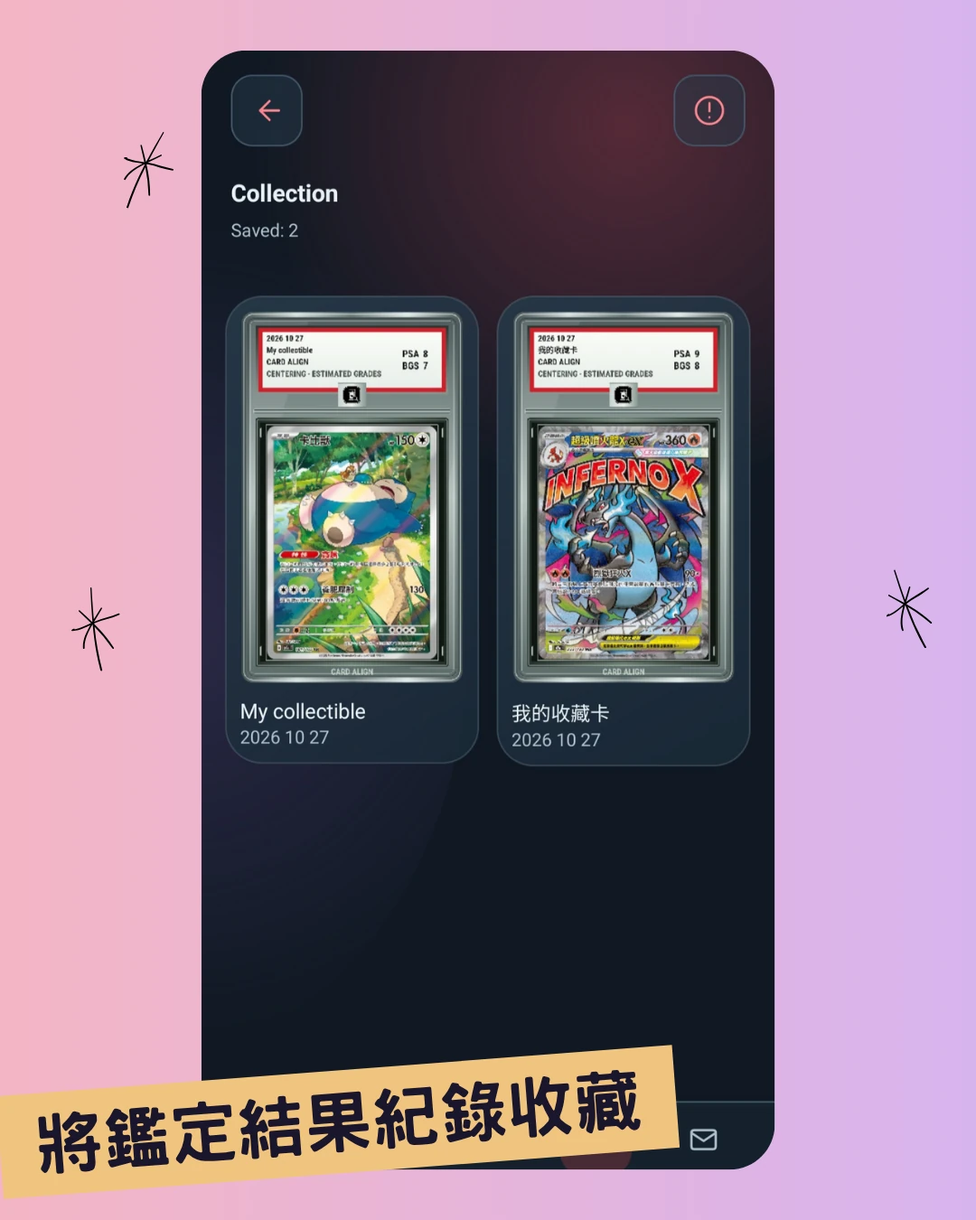
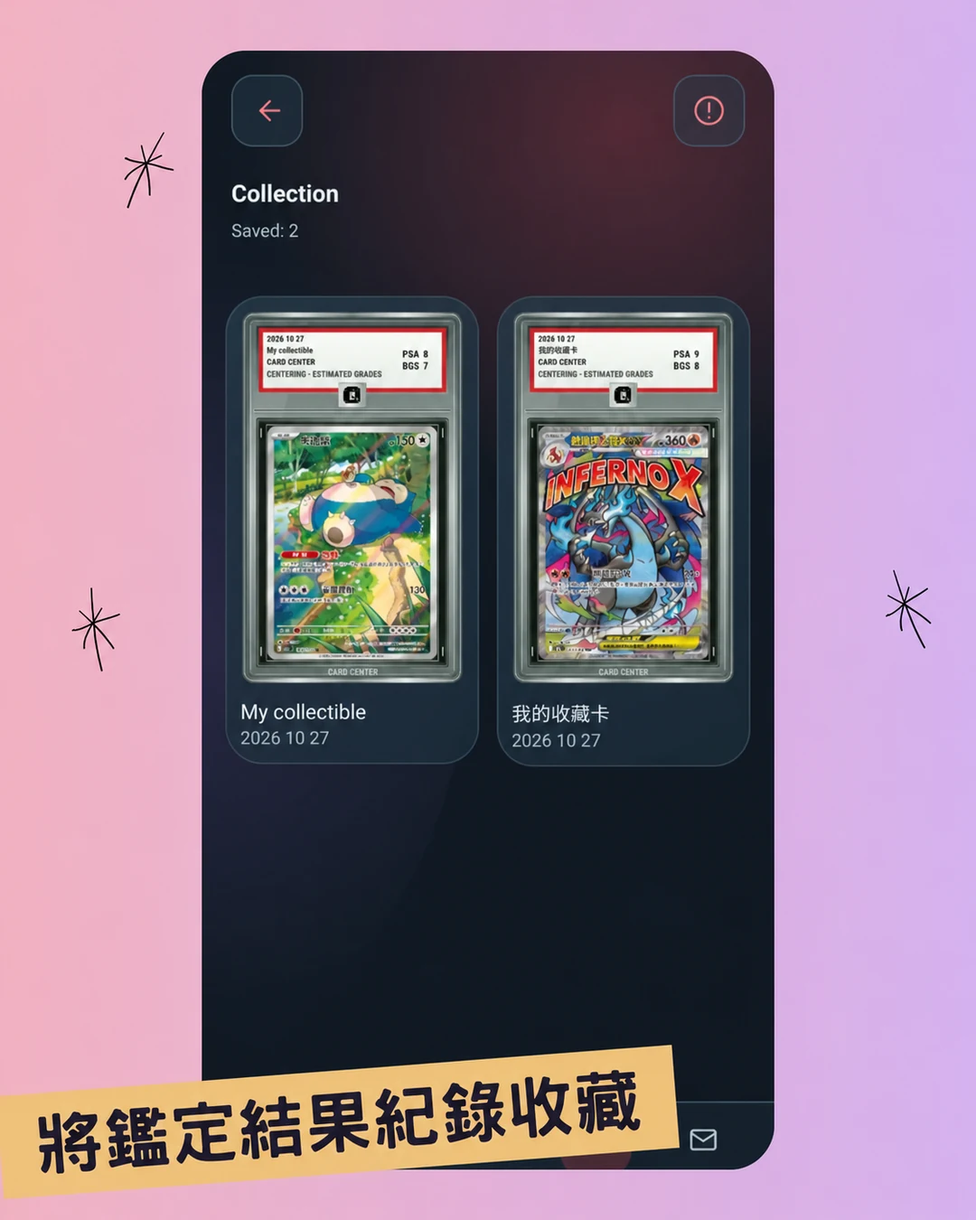
Rebrand the website and feature artwork as CARD CENTER with the verified new APK

diff --git a/index.html b/index.html
@@ -6,11 +6,11 @@
 <meta http-equiv="Content-Security-Policy" content="default-src 'self'; script-src 'self'; style-src 'self' 'unsafe-inline'; img-src 'self'; font-src 'self'; connect-src 'self'; object-src 'none'; base-uri 'none'; form-action 'none'; frame-src 'none'; upgrade-insecure-requests"/>
 <meta content="width=device-width, initial-scale=1" name="viewport"/>
 <meta content="#fafaf8" name="theme-color"/>
-<meta content="CARD ALIGN 卡牌邊框分析 App自動偵測內外框、分析正反面居中比例 製作你的收藏小卡 儲存、分享並收進專屬圖鑑" name="description"/>
+<meta content="CARD CENTER 卡牌邊框分析 App自動偵測內外框、分析正反面居中比例 製作你的收藏小卡 儲存、分享並收進專屬圖鑑" name="description"/>
 <meta content="website" property="og:type"/>
-<meta content="CARD ALIGN — 好卡 好好對齊" property="og:title"/>
-<meta content="CARD ALIGN 卡牌邊框分析 App自動偵測內外框、分析正反面居中比例 製作你的收藏小卡 儲存、分享並收進專屬圖鑑" property="og:description"/>
-<meta content="https://ice0819.github.io/Card-Align/assets/social-preview.jpg" property="og:image"/>
+<meta content="CARD CENTER — 好卡 好好對齊" property="og:title"/>
+<meta content="CARD CENTER 卡牌邊框分析 App自動偵測內外框、分析正反面居中比例 製作你的收藏小卡 儲存、分享並收進專屬圖鑑" property="og:description"/>
+<meta content="https://ice0819.github.io/Card-Align/assets/social-preview-card-center.jpg" property="og:image"/>
 <meta content="https://ice0819.github.io/Card-Align/" property="og:url"/>
 <meta content="summary_large_image" name="twitter:card"/>
 <link href="assets/favicon.png" rel="icon" type="image/png"/>
@@ -18,7 +18,7 @@
 <link href="styles.css" rel="stylesheet"/>
 <link as="image" fetchpriority="high" href="assets/cards/charizard.webp" rel="preload"/>
 <script defer="" src="script.js"></script>
-<title>CARD ALIGN — 好卡 好好對齊</title>
+<title>CARD CENTER — 好卡 好好對齊</title>
 </head>
 <body class="home-page">
 <svg aria-hidden="true" class="icon-definitions" xmlns="http://www.w3.org/2000/svg">
@@ -39,9 +39,9 @@
 <a class="skip-link" href="#main">跳至主要內容</a>
 <header class="site-header">
 <div class="header-inner">
-<a aria-label="CARD ALIGN 首頁" class="brand" href="index.html">
+<a aria-label="CARD CENTER 首頁" class="brand" href="index.html">
 <img alt="" class="brand-mark" height="40" src="assets/logo.png" width="40"/>
-<span>CARD ALIGN<span aria-hidden="true" class="brand-dot">+</span></span>
+<span>CARD CENTER<span aria-hidden="true" class="brand-dot">+</span></span>
 </a>
 <nav aria-label="主要導覽" class="desktop-nav"><a href="#features">功能特色</a><a href="tutorial.html">如何使用</a><a href="pricing.html">收費方式</a><a href="#faq">常見問題</a><a href="contact.html">聯絡我們</a></nav>
 <div class="header-actions">
@@ -56,7 +56,7 @@
 <div class="hero-copy container">
 <h1 id="hero-title"><span>好卡</span><br/><span class="hero-emphasis">好好對齊</span><span aria-hidden="true" class="alignment-spark"></span></h1>
 <div class="hero-actions">
-<a class="button apk-download button-ink" download="card-align-v1.0.apk" href="https://github.com/ice0819/Card-Align/releases/download/v1.0/card-align-v1.0.apk"><svg class="icon"><use href="#i-down"></use></svg><span>下載APP</span></a>
+<a class="button apk-download button-ink" download="card-center-v1.0.apk" href="https://github.com/ice0819/Card-Align/releases/download/v1.0-card-center/card-center-v1.0.apk"><svg class="icon"><use href="#i-down"></use></svg><span>下載APP</span></a>
 </div>
 </div>
 <div aria-label="卡牌展示，可用左右方向鍵切換" aria-roledescription="carousel" class="card-showcase" role="region" tabindex="0">
@@ -81,7 +81,7 @@
 <div class="section-heading reveal"><h2 id="features-title">收藏的細節 <br/>看得更清楚</h2></div>
 <div aria-label="App 功能介紹" class="app-gallery" id="app-gallery" role="region">
 <figure class="feature-story reveal">
-<img alt="CARD ALIGN 主頁、卡牌輪播與正反面照片匯入功能介紹" class="feature-story-image" decoding="async" height="1350" loading="lazy" src="assets/features/01-start.webp" width="1080"/>
+<img alt="CARD CENTER 主頁、卡牌輪播與正反面照片匯入功能介紹" class="feature-story-image" decoding="async" height="1350" loading="lazy" src="assets/features/01-start.webp" width="1080"/>
 <figcaption><h3>開始卡牌分析</h3><p>匯入正反面照片 從你的收藏開始</p></figcaption>
 </figure>
 <figure class="feature-story reveal">
@@ -94,14 +94,14 @@
 </figure>
 <figure class="feature-story reveal">
 <img alt="卡牌邊框比例分析報告，以及具有自訂名稱和預估級別的專屬小卡" class="feature-story-image" decoding="async" height="1350" loading="lazy" src="assets/features/04-results.webp" width="1080"/>
-<figcaption><h3>分析結果與專屬小卡</h3><p>分析邊框比例 把結果做成專屬小卡</p><div class="story-addon story-slab"><div class="slab-scene"><div aria-label="CARD ALIGN 收藏小卡示意" class="score-slab"><div class="slab-label"><div class="slab-label-left"><span>2026 10 27</span><strong>CHARIZARD</strong><span>CARD ALIGN</span></div><div class="slab-label-right"><div><span>PSA</span><b>10</b></div><div><span>BGS</span><b>9.5</b></div></div><span class="slab-label-bottom">CENTERING · ESTIMATED GRADES</span><div class="slab-sticker"><img alt="" height="26" loading="lazy" src="assets/logo.png" width="26"/></div></div><div class="slab-divider"></div><div class="slab-card-well"><img alt="噴火龍卡牌" height="502" loading="lazy" src="assets/cards/charizard.webp" width="360"/></div></div></div></div></figcaption>
+<figcaption><h3>分析結果與專屬小卡</h3><p>分析邊框比例 把結果做成專屬小卡</p><div class="story-addon story-slab"><div class="slab-scene"><div aria-label="CARD CENTER 收藏小卡示意" class="score-slab"><div class="slab-label"><div class="slab-label-left"><span>2026 10 27</span><strong>CHARIZARD</strong><span>CARD CENTER</span></div><div class="slab-label-right"><div><span>PSA</span><b>10</b></div><div><span>BGS</span><b>9.5</b></div></div><span class="slab-label-bottom">CENTERING · ESTIMATED GRADES</span><div class="slab-sticker"><img alt="" height="26" loading="lazy" src="assets/logo.png" width="26"/></div></div><div class="slab-divider"></div><div class="slab-card-well"><img alt="噴火龍卡牌" height="502" loading="lazy" src="assets/cards/charizard.webp" width="360"/></div></div></div></div></figcaption>
 </figure>
 <figure class="feature-story reveal">
 <img alt="將卡牌圖片、名稱、日期與分析結果儲存到收藏圖鑑的功能介紹" class="feature-story-image" decoding="async" height="1350" loading="lazy" src="assets/features/05-collection.webp" width="1080"/>
 <figcaption><h3>圖鑑紀錄收藏</h3><p>留下紀錄 隨時回顧收藏</p></figcaption>
 </figure>
 <figure class="feature-story reveal">
-<img alt="CARD ALIGN 的黑夜模式及繁體中文、英文介面切換功能介紹" class="feature-story-image" decoding="async" height="1350" loading="lazy" src="assets/features/06-appearance.webp" width="1080"/>
+<img alt="CARD CENTER 的黑夜模式及繁體中文、英文介面切換功能介紹" class="feature-story-image" decoding="async" height="1350" loading="lazy" src="assets/features/06-appearance.webp" width="1080"/>
 <figcaption><h3>深淺模式與雙語</h3><p>切換深淺模式 以及各種語言</p></figcaption>
 </figure>
 </div>
@@ -109,18 +109,18 @@
 <section aria-labelledby="faq-title" class="faq-section section-space container" id="faq">
 <div class="faq-intro reveal"><h2 id="faq-title">開始之前 <br/>你可能想知道</h2></div>
 <div class="faq-list reveal">
-<details><summary><span>App 的評分等於正式鑑定嗎？</span><svg class="icon"><use href="#i-plus"></use></svg></summary><div class="faq-answer">不是 CARD ALIGN 僅依邊框居中比例提供 PSA / BGS 預估級別 不檢查卡角、卡邊磨損或表面狀況 也不是 PSA 或 BGS 的官方產品 請把結果當作整理收藏與送鑑前的參考</div></details>
+<details><summary><span>App 的評分等於正式鑑定嗎？</span><svg class="icon"><use href="#i-plus"></use></svg></summary><div class="faq-answer">不是 CARD CENTER 僅依邊框居中比例提供 PSA / BGS 預估級別 不檢查卡角、卡邊磨損或表面狀況 也不是 PSA 或 BGS 的官方產品 請把結果當作整理收藏與送鑑前的參考</div></details>
 <details><summary><span>要準備什麼樣的照片？</span><svg class="icon"><use href="#i-plus"></use></svg></summary><div class="faq-answer">準備同一張卡牌的正面與背面照片 保留完整四角 盡量正面拍攝並減少反光 可以從相簿匯入 也可以直接開啟相機；照片方向不對時 可先用 90° 旋轉修正</div></details>
 <details><summary><span>需要連上網路才能分析嗎？</span><svg class="icon"><use href="#i-plus"></use></svg></summary><div class="faq-answer">邊框偵測、透視校正、分析與本機圖鑑不需要網路 卡牌查價、線上翻譯、開啟商品頁與贊助連結則需要網路連線</div></details>
 <details><summary><span>可以在 iPhone 使用嗎？</span><svg class="icon"><use href="#i-plus"></use></svg></summary><div class="faq-answer">目前提供 Android 版本 支援 Android 7.0 以上 此網站是產品介紹頁 實際拍攝、校正與分析功能請在 Android App 中使用</div></details>
-<details><summary><span>下載 APK 後怎麼安裝？</span><svg class="icon"><use href="#i-plus"></use></svg></summary><div class="faq-answer">點選下載按鈕直接儲存 APK 再從手機開啟檔案安裝 若系統要求 請只為這次使用的瀏覽器或檔案管理程式允許安裝來源 安裝後開啟 CARD ALIGN 即可開始匯入照片</div></details>
+<details><summary><span>下載 APK 後怎麼安裝？</span><svg class="icon"><use href="#i-plus"></use></svg></summary><div class="faq-answer">點選下載按鈕直接儲存 APK 再從手機開啟檔案安裝 若系統要求 請只為這次使用的瀏覽器或檔案管理程式允許安裝來源 安裝後開啟 CARD CENTER 即可開始匯入照片</div></details>
 </div>
 </section>
-<section aria-labelledby="download-title" class="download-section" id="download"><div class="download-inner container"><div class="download-copy reveal"><h2 id="download-title">下一張收藏 <br/>好好對齊</h2><a class="button button-ink apk-download" download="card-align-v1.0.apk" href="https://github.com/ice0819/Card-Align/releases/download/v1.0/card-align-v1.0.apk"><svg class="icon"><use href="#i-down"></use></svg><span>下載APP</span></a><span class="download-meta">v1.0 · Android 7.0+ · 直接下載 APK</span></div><div aria-hidden="true" class="download-art reveal"><div class="download-orbit"></div><img alt="" class="download-card card-one" height="502" loading="lazy" src="assets/cards/poncho-red.webp" width="360"/><img alt="" class="download-card card-two" height="502" loading="lazy" src="assets/cards/poncho-green.webp" width="360"/><span class="download-seal glass"><img alt="" height="48" loading="lazy" src="assets/logo.png" width="48"/></span></div></div></section>
+<section aria-labelledby="download-title" class="download-section" id="download"><div class="download-inner container"><div class="download-copy reveal"><h2 id="download-title">下一張收藏 <br/>好好對齊</h2><a class="button button-ink apk-download" download="card-center-v1.0.apk" href="https://github.com/ice0819/Card-Align/releases/download/v1.0-card-center/card-center-v1.0.apk"><svg class="icon"><use href="#i-down"></use></svg><span>下載APP</span></a><span class="download-meta">v1.0 · Android 7.0+ · 直接下載 APK</span></div><div aria-hidden="true" class="download-art reveal"><div class="download-orbit"></div><img alt="" class="download-card card-one" height="502" loading="lazy" src="assets/cards/poncho-red.webp" width="360"/><img alt="" class="download-card card-two" height="502" loading="lazy" src="assets/cards/poncho-green.webp" width="360"/><span class="download-seal glass"><img alt="" height="48" loading="lazy" src="assets/logo.png" width="48"/></span></div></div></section>
 </main>
 <footer class="site-footer container">
 <div class="footer-top">
-<a aria-label="CARD ALIGN 首頁" class="brand" href="index.html"><img alt="" class="brand-mark" height="36" src="assets/logo.png" width="36"/><span>CARD ALIGN<span aria-hidden="true" class="brand-dot">+</span></span></a>
+<a aria-label="CARD CENTER 首頁" class="brand" href="index.html"><img alt="" class="brand-mark" height="36" src="assets/logo.png" width="36"/><span>CARD CENTER<span aria-hidden="true" class="brand-dot">+</span></span></a>
 <div class="footer-links">
 <a href="pricing.html">服務與贊助</a>
 <a href="contact.html">聯絡我們</a>
@@ -130,7 +130,7 @@
 <div><h3>客服資訊</h3><p>App 使用與贊助問題 歡迎來信聯絡</p></div>
 <a class="contact-email" href="mailto:card33358445@gmail.com"><svg aria-hidden="true" class="icon"><use href="#i-mail"></use></svg><span>card33358445@gmail.com</span></a>
 </div>
-<div class="footer-bottom"><span>© <span id="year">2026</span> CARD ALIGN </span><span>卡牌圖片僅作功能與收藏展示 相關商標及圖像權利屬原權利人</span></div>
+<div class="footer-bottom"><span>© <span id="year">2026</span> CARD CENTER </span><span>卡牌圖片僅作功能與收藏展示 相關商標及圖像權利屬原權利人</span></div>
 </footer>
 </body>
 </html>

diff --git a/pricing.html b/pricing.html
@@ -6,18 +6,18 @@
 <meta http-equiv="Content-Security-Policy" content="default-src 'self'; script-src 'self'; style-src 'self' 'unsafe-inline'; img-src 'self'; font-src 'self'; connect-src 'self'; object-src 'none'; base-uri 'none'; form-action 'none'; frame-src 'none'; upgrade-insecure-requests"/>
 <meta content="width=device-width, initial-scale=1" name="viewport"/>
 <meta content="#fafaf8" name="theme-color"/>
-<meta content="CARD ALIGN 免費使用、無應用程式內購；自願贊助金額自訂 以新台幣計價" name="description"/>
+<meta content="CARD CENTER 免費使用、無應用程式內購；自願贊助金額自訂 以新台幣計價" name="description"/>
 <meta content="website" property="og:type"/>
-<meta content="收費方式｜CARD ALIGN" property="og:title"/>
-<meta content="CARD ALIGN 免費使用、無應用程式內購；自願贊助金額自訂 以新台幣計價" property="og:description"/>
-<meta content="https://ice0819.github.io/Card-Align/assets/social-preview.jpg" property="og:image"/>
+<meta content="收費方式｜CARD CENTER" property="og:title"/>
+<meta content="CARD CENTER 免費使用、無應用程式內購；自願贊助金額自訂 以新台幣計價" property="og:description"/>
+<meta content="https://ice0819.github.io/Card-Align/assets/social-preview-card-center.jpg" property="og:image"/>
 <meta content="https://ice0819.github.io/Card-Align/pricing.html" property="og:url"/>
 <meta content="summary_large_image" name="twitter:card"/>
 <link href="assets/favicon.png" rel="icon" type="image/png"/>
 <link href="assets/app-icon.png" rel="apple-touch-icon"/>
 <link href="styles.css" rel="stylesheet"/>
 <script defer="" src="script.js"></script>
-<title>收費方式｜CARD ALIGN</title>
+<title>收費方式｜CARD CENTER</title>
 </head>
 <body class="pricing-page">
 <svg aria-hidden="true" class="icon-definitions" xmlns="http://www.w3.org/2000/svg">
@@ -38,9 +38,9 @@
 <a class="skip-link" href="#main">跳至主要內容</a>
 <header class="site-header">
 <div class="header-inner">
-<a aria-label="CARD ALIGN 首頁" class="brand" href="index.html">
+<a aria-label="CARD CENTER 首頁" class="brand" href="index.html">
 <img alt="" class="brand-mark" height="40" src="assets/logo.png" width="40"/>
-<span>CARD ALIGN<span aria-hidden="true" class="brand-dot">+</span></span>
+<span>CARD CENTER<span aria-hidden="true" class="brand-dot">+</span></span>
 </a>
 <nav aria-label="主要導覽" class="desktop-nav"><a href="index.html#features">功能特色</a><a href="tutorial.html">如何使用</a><a aria-current="page" href="pricing.html">收費方式</a><a href="index.html#faq">常見問題</a><a href="contact.html">聯絡我們</a></nav>
 <div class="header-actions">
@@ -54,7 +54,7 @@
 <div class="section-heading reveal">
 <p class="eyebrow">服務與贊助</p>
 <h1 id="service-title">免費使用 <br/>自由支持</h1>
-<p class="section-intro">CARD ALIGN 提供開源免費的卡牌邊框分析服務 無應用程式內購功能 歡迎依心意支持獨立開發</p>
+<p class="section-intro">CARD CENTER 提供開源免費的卡牌邊框分析服務 無應用程式內購功能 歡迎依心意支持獨立開發</p>
 </div>
 <div class="service-grid reveal">
 <article class="service-card">
@@ -82,7 +82,7 @@
 </section></main>
 <footer class="site-footer container">
 <div class="footer-top">
-<a aria-label="CARD ALIGN 首頁" class="brand" href="index.html"><img alt="" class="brand-mark" height="36" src="assets/logo.png" width="36"/><span>CARD ALIGN<span aria-hidden="true" class="brand-dot">+</span></span></a>
+<a aria-label="CARD CENTER 首頁" class="brand" href="index.html"><img alt="" class="brand-mark" height="36" src="assets/logo.png" width="36"/><span>CARD CENTER<span aria-hidden="true" class="brand-dot">+</span></span></a>
 <div class="footer-links">
 <a aria-current="page" href="pricing.html">服務與贊助</a>
 <a href="contact.html">聯絡我們</a>
@@ -92,7 +92,7 @@
 <div><h3>客服資訊</h3><p>App 使用與贊助問題 歡迎來信聯絡</p></div>
 <a class="contact-email" href="mailto:card33358445@gmail.com"><svg aria-hidden="true" class="icon"><use href="#i-mail"></use></svg><span>card33358445@gmail.com</span></a>
 </div>
-<div class="footer-bottom"><span>© <span id="year">2026</span> CARD ALIGN </span><span>卡牌圖片僅作功能與收藏展示 相關商標及圖像權利屬原權利人</span></div>
+<div class="footer-bottom"><span>© <span id="year">2026</span> CARD CENTER </span><span>卡牌圖片僅作功能與收藏展示 相關商標及圖像權利屬原權利人</span></div>
 </footer>
 </body>
 </html>

diff --git a/contact.html b/contact.html
@@ -6,18 +6,18 @@
 <meta http-equiv="Content-Security-Policy" content="default-src 'self'; script-src 'self'; style-src 'self' 'unsafe-inline'; img-src 'self'; font-src 'self'; connect-src 'self'; object-src 'none'; base-uri 'none'; form-action 'none'; frame-src 'none'; upgrade-insecure-requests"/>
 <meta content="width=device-width, initial-scale=1" name="viewport"/>
 <meta content="#fafaf8" name="theme-color"/>
-<meta content="CARD ALIGN 的客服信箱與網站網址 提供 App 使用與贊助相關聯絡資訊" name="description"/>
+<meta content="CARD CENTER 的客服信箱與網站網址 提供 App 使用與贊助相關聯絡資訊" name="description"/>
 <meta content="website" property="og:type"/>
-<meta content="聯絡我們｜CARD ALIGN" property="og:title"/>
-<meta content="CARD ALIGN 的客服信箱與網站網址 提供 App 使用與贊助相關聯絡資訊" property="og:description"/>
-<meta content="https://ice0819.github.io/Card-Align/assets/social-preview.jpg" property="og:image"/>
+<meta content="聯絡我們｜CARD CENTER" property="og:title"/>
+<meta content="CARD CENTER 的客服信箱與網站網址 提供 App 使用與贊助相關聯絡資訊" property="og:description"/>
+<meta content="https://ice0819.github.io/Card-Align/assets/social-preview-card-center.jpg" property="og:image"/>
 <meta content="https://ice0819.github.io/Card-Align/contact.html" property="og:url"/>
 <meta content="summary_large_image" name="twitter:card"/>
 <link href="assets/favicon.png" rel="icon" type="image/png"/>
 <link href="assets/app-icon.png" rel="apple-touch-icon"/>
 <link href="styles.css" rel="stylesheet"/>
 <script defer="" src="script.js"></script>
-<title>聯絡我們｜CARD ALIGN</title>
+<title>聯絡我們｜CARD CENTER</title>
 </head>
 <body class="contact-page">
 <svg aria-hidden="true" class="icon-definitions" xmlns="http://www.w3.org/2000/svg">
@@ -38,9 +38,9 @@
 <a class="skip-link" href="#main">跳至主要內容</a>
 <header class="site-header">
 <div class="header-inner">
-<a aria-label="CARD ALIGN 首頁" class="brand" href="index.html">
+<a aria-label="CARD CENTER 首頁" class="brand" href="index.html">
 <img alt="" class="brand-mark" height="40" src="assets/logo.png" width="40"/>
-<span>CARD ALIGN<span aria-hidden="true" class="brand-dot">+</span></span>
+<span>CARD CENTER<span aria-hidden="true" class="brand-dot">+</span></span>
 </a>
 <nav aria-label="主要導覽" class="desktop-nav"><a href="index.html#features">功能特色</a><a href="tutorial.html">如何使用</a><a href="pricing.html">收費方式</a><a href="index.html#faq">常見問題</a><a aria-current="page" href="contact.html">聯絡我們</a></nav>
 <div class="header-actions">
@@ -57,7 +57,7 @@
 </header>
 <div class="contact-identity">
 <img alt="" class="brand-mark contact-logo" height="72" src="assets/logo.png" width="72"/>
-<p class="contact-brand-name">CARD ALIGN</p>
+<p class="contact-brand-name">CARD CENTER</p>
 <p class="contact-brand-description">卡牌邊框分析與收藏紀錄</p>
 </div>
 <dl class="contact-information">
@@ -74,7 +74,7 @@
 </main>
 <footer class="site-footer container">
 <div class="footer-top">
-<a aria-label="CARD ALIGN 首頁" class="brand" href="index.html"><img alt="" class="brand-mark" height="36" src="assets/logo.png" width="36"/><span>CARD ALIGN<span aria-hidden="true" class="brand-dot">+</span></span></a>
+<a aria-label="CARD CENTER 首頁" class="brand" href="index.html"><img alt="" class="brand-mark" height="36" src="assets/logo.png" width="36"/><span>CARD CENTER<span aria-hidden="true" class="brand-dot">+</span></span></a>
 <div class="footer-links">
 <a href="pricing.html">服務與贊助</a>
 <a aria-current="page" href="contact.html">聯絡我們</a>
@@ -84,7 +84,7 @@
 <div><h3>客服資訊</h3><p>App 使用與贊助問題 歡迎來信聯絡</p></div>
 <a class="contact-email" href="mailto:card33358445@gmail.com"><svg aria-hidden="true" class="icon"><use href="#i-mail"></use></svg><span>card33358445@gmail.com</span></a>
 </div>
-<div class="footer-bottom"><span>© <span id="year">2026</span> CARD ALIGN </span><span>卡牌圖片僅作功能與收藏展示 相關商標及圖像權利屬原權利人</span></div>
+<div class="footer-bottom"><span>© <span id="year">2026</span> CARD CENTER </span><span>卡牌圖片僅作功能與收藏展示 相關商標及圖像權利屬原權利人</span></div>
 </footer>
 </body>
 </html>

diff --git a/tutorial.html b/tutorial.html
@@ -6,18 +6,18 @@
 <meta http-equiv="Content-Security-Policy" content="default-src 'self'; script-src 'self'; style-src 'self' 'unsafe-inline'; img-src 'self'; font-src 'self'; connect-src 'self'; object-src 'none'; base-uri 'none'; form-action 'none'; frame-src 'none'; upgrade-insecure-requests"/>
 <meta content="width=device-width, initial-scale=1" name="viewport"/>
 <meta content="#fafaf8" name="theme-color"/>
-<meta content="從照片到收藏 了解 CARD ALIGN 的邊框定位、比例分析與小卡紀錄流程" name="description"/>
+<meta content="從照片到收藏 了解 CARD CENTER 的邊框定位、比例分析與小卡紀錄流程" name="description"/>
 <meta content="website" property="og:type"/>
-<meta content="使用教學｜CARD ALIGN" property="og:title"/>
-<meta content="從照片到收藏 了解 CARD ALIGN 的邊框定位、比例分析與小卡紀錄流程" property="og:description"/>
-<meta content="https://ice0819.github.io/Card-Align/assets/social-preview.jpg" property="og:image"/>
+<meta content="使用教學｜CARD CENTER" property="og:title"/>
+<meta content="從照片到收藏 了解 CARD CENTER 的邊框定位、比例分析與小卡紀錄流程" property="og:description"/>
+<meta content="https://ice0819.github.io/Card-Align/assets/social-preview-card-center.jpg" property="og:image"/>
 <meta content="https://ice0819.github.io/Card-Align/tutorial.html" property="og:url"/>
 <meta content="summary_large_image" name="twitter:card"/>
 <link href="assets/favicon.png" rel="icon" type="image/png"/>
 <link href="assets/app-icon.png" rel="apple-touch-icon"/>
 <link href="styles.css" rel="stylesheet"/>
 <script defer="" src="script.js"></script>
-<title>使用教學｜CARD ALIGN</title>
+<title>使用教學｜CARD CENTER</title>
 </head>
 <body class="tutorial-page">
 <svg aria-hidden="true" class="icon-definitions" xmlns="http://www.w3.org/2000/svg">
@@ -38,9 +38,9 @@
 <a class="skip-link" href="#main">跳至主要內容</a>
 <header class="site-header">
 <div class="header-inner">
-<a aria-label="CARD ALIGN 首頁" class="brand" href="index.html">
+<a aria-label="CARD CENTER 首頁" class="brand" href="index.html">
 <img alt="" class="brand-mark" height="40" src="assets/logo.png" width="40"/>
-<span>CARD ALIGN<span aria-hidden="true" class="brand-dot">+</span></span>
+<span>CARD CENTER<span aria-hidden="true" class="brand-dot">+</span></span>
 </a>
 <nav aria-label="主要導覽" class="desktop-nav"><a href="index.html#features">功能特色</a><a aria-current="page" href="tutorial.html">如何使用</a><a href="pricing.html">收費方式</a><a href="index.html#faq">常見問題</a><a href="contact.html">聯絡我們</a></nav>
 <div class="header-actions">
@@ -75,7 +75,7 @@
 </div></main>
 <footer class="site-footer container">
 <div class="footer-top">
-<a aria-label="CARD ALIGN 首頁" class="brand" href="index.html"><img alt="" class="brand-mark" height="36" src="assets/logo.png" width="36"/><span>CARD ALIGN<span aria-hidden="true" class="brand-dot">+</span></span></a>
+<a aria-label="CARD CENTER 首頁" class="brand" href="index.html"><img alt="" class="brand-mark" height="36" src="assets/logo.png" width="36"/><span>CARD CENTER<span aria-hidden="true" class="brand-dot">+</span></span></a>
 <div class="footer-links">
 <a href="pricing.html">服務與贊助</a>
 <a href="contact.html">聯絡我們</a>
@@ -85,7 +85,7 @@
 <div><h3>客服資訊</h3><p>App 使用與贊助問題 歡迎來信聯絡</p></div>
 <a class="contact-email" href="mailto:card33358445@gmail.com"><svg aria-hidden="true" class="icon"><use href="#i-mail"></use></svg><span>card33358445@gmail.com</span></a>
 </div>
-<div class="footer-bottom"><span>© <span id="year">2026</span> CARD ALIGN </span><span>卡牌圖片僅作功能與收藏展示 相關商標及圖像權利屬原權利人</span></div>
+<div class="footer-bottom"><span>© <span id="year">2026</span> CARD CENTER </span><span>卡牌圖片僅作功能與收藏展示 相關商標及圖像權利屬原權利人</span></div>
 </footer>
 </body>
 </html>
